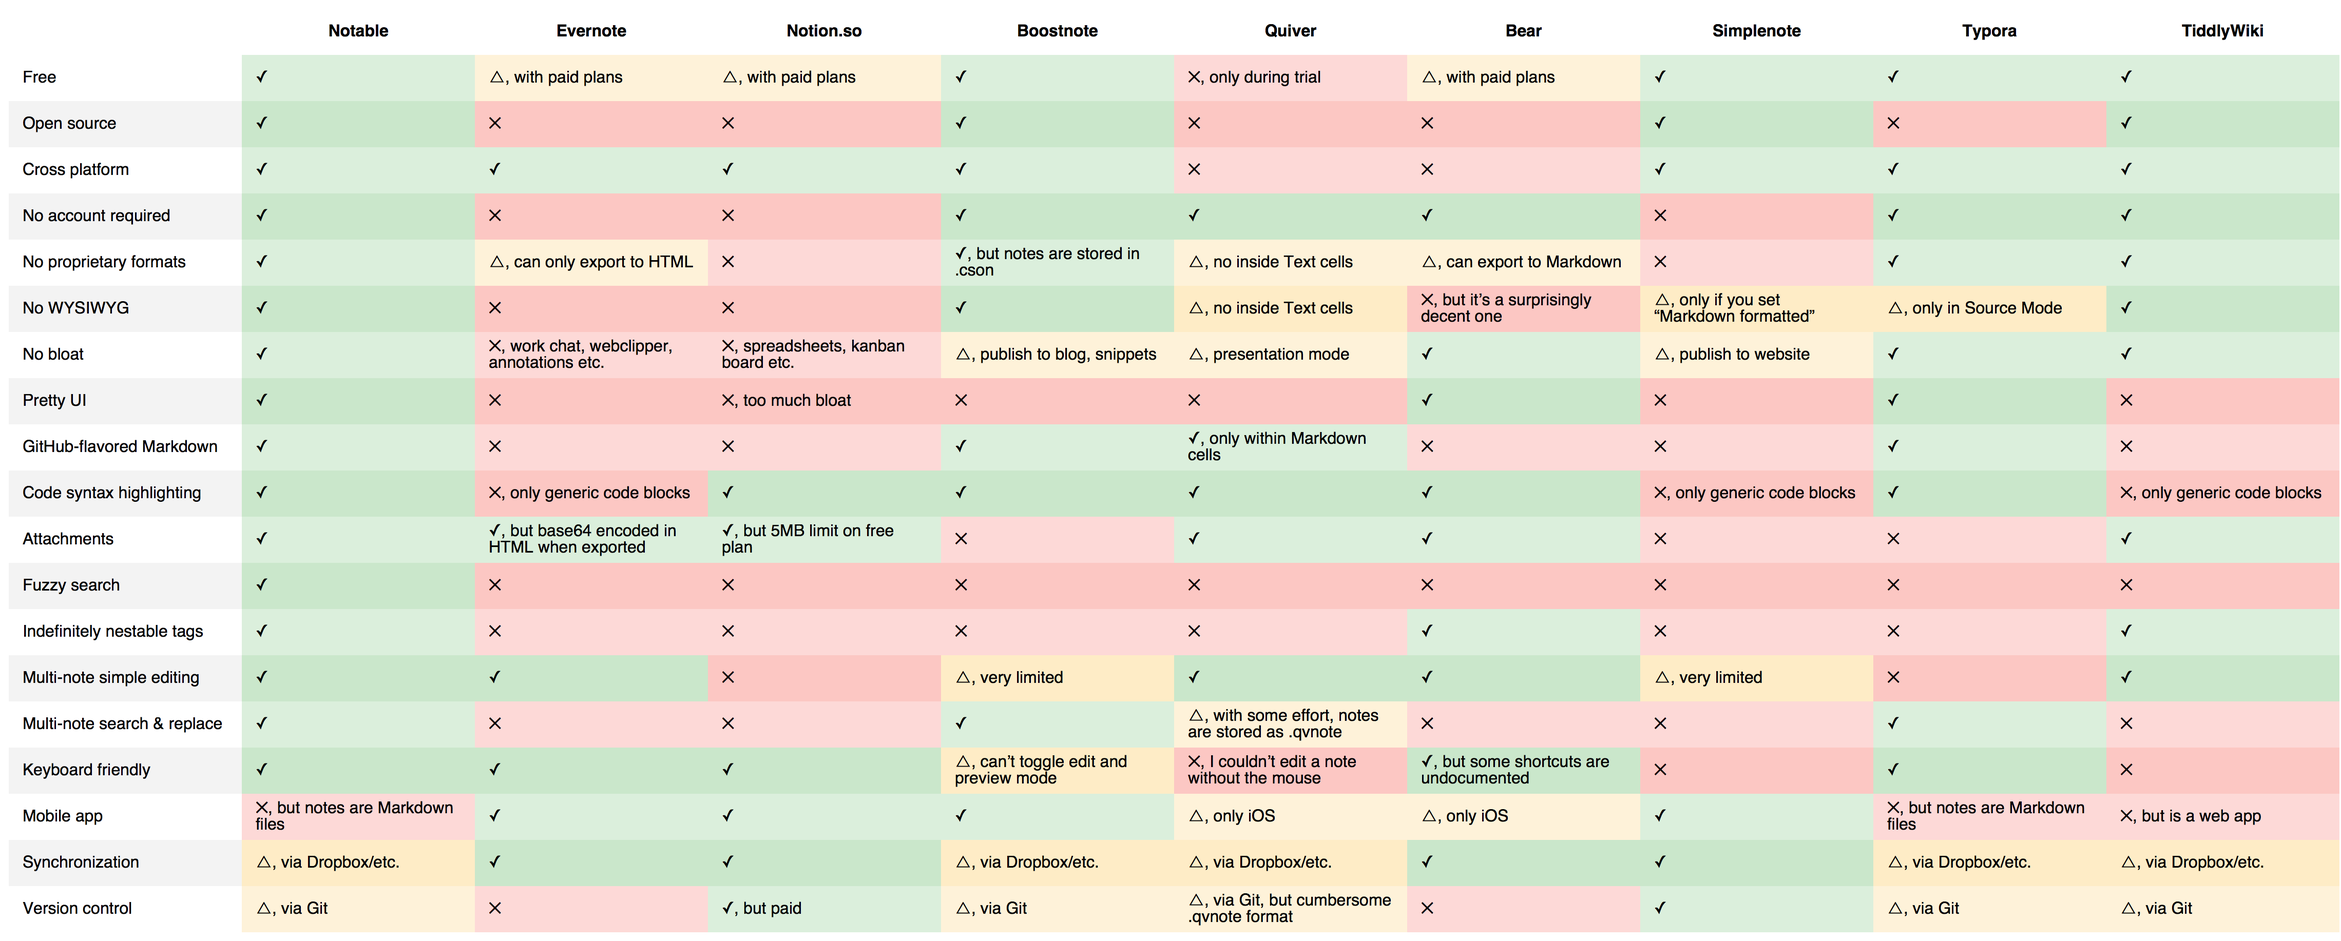
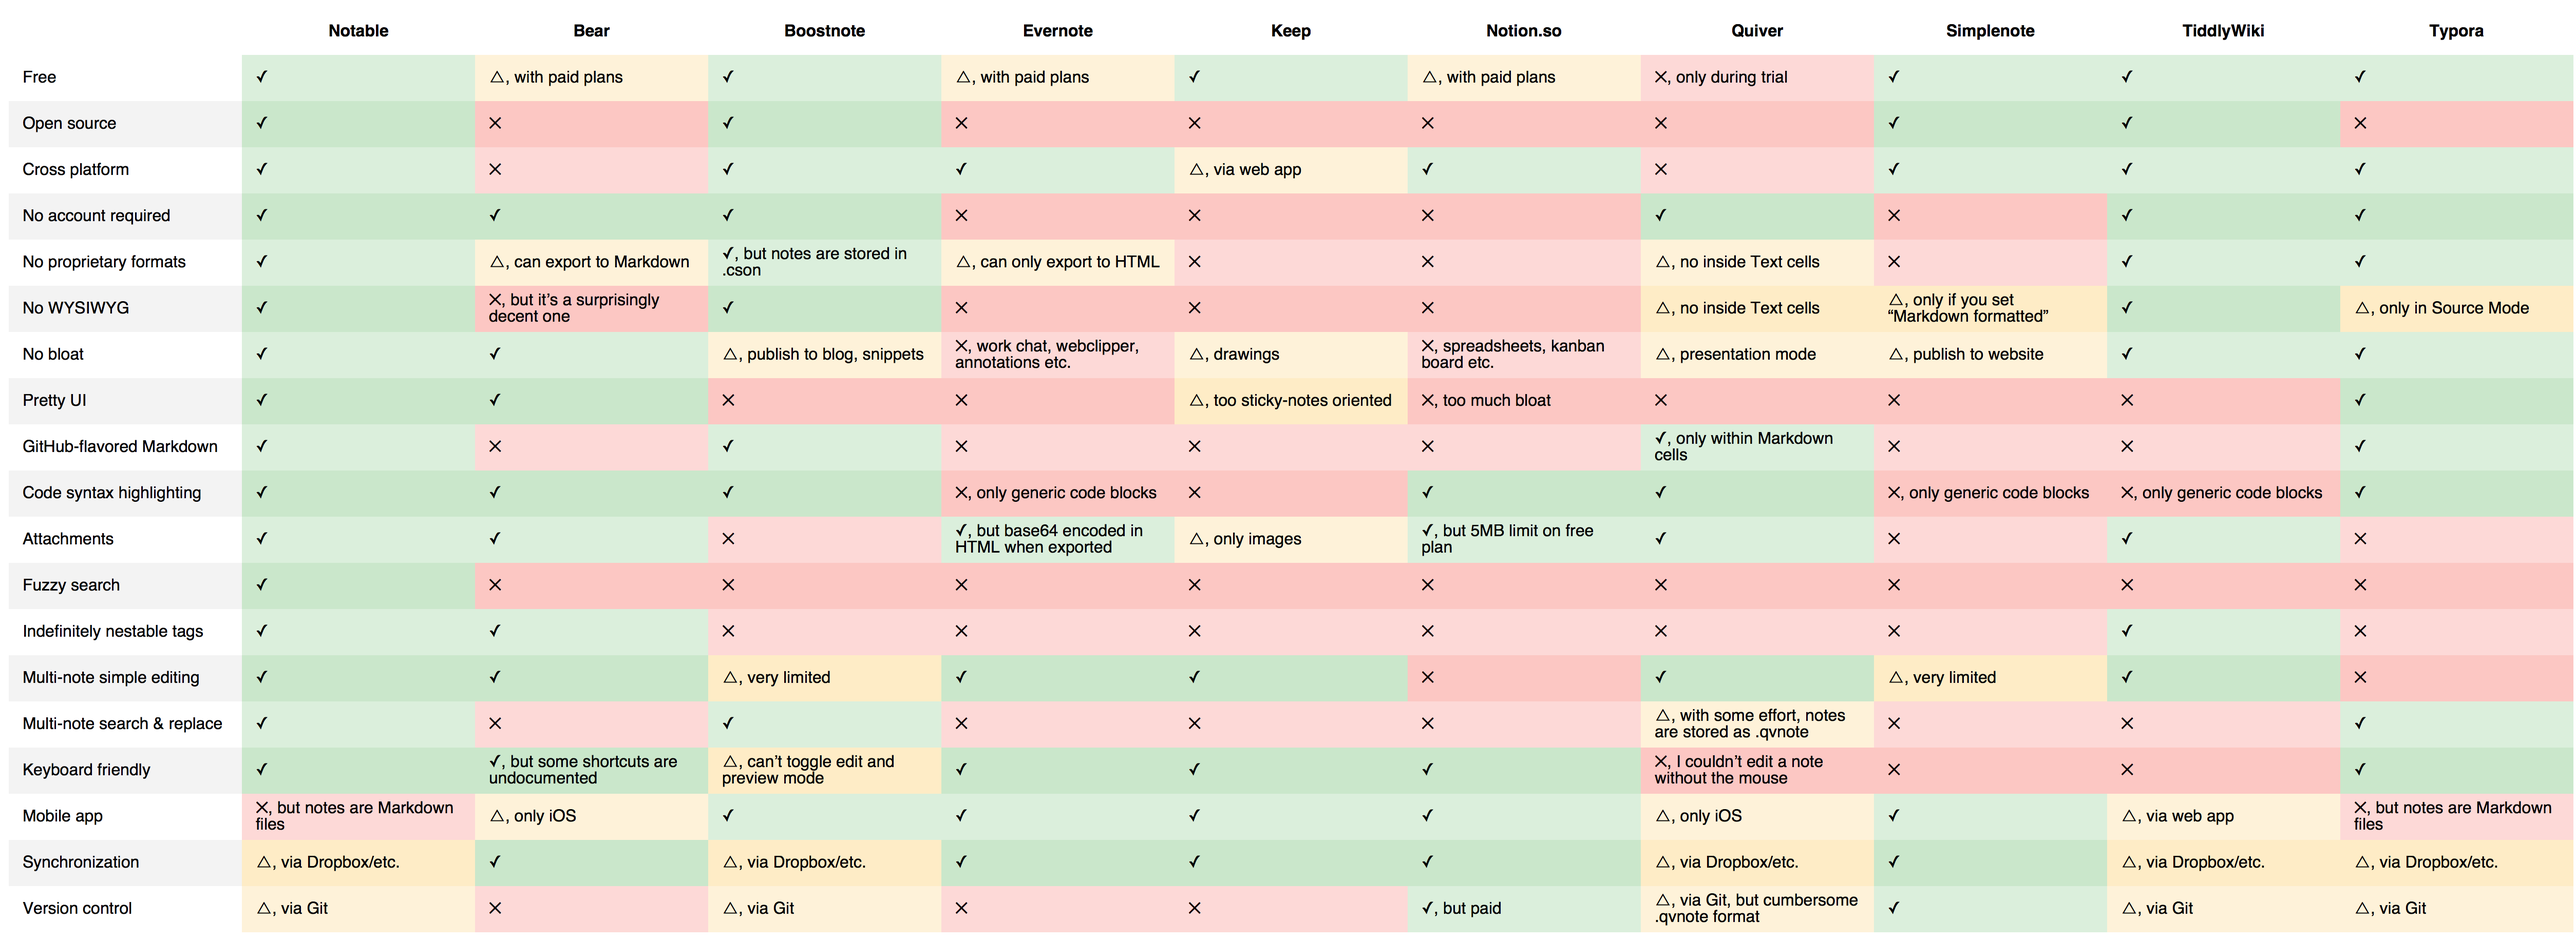
Added Google Keep to the comparison table
Closes #97

diff --git a/resources/comparison/table.html b/resources/comparison/table.html
@@ -54,6 +54,7 @@
         <th>Bear</th> <!-- Bear -->
         <th>Boostnote</th> <!-- Boostnote -->
         <th>Evernote</th> <!-- Evernote -->
+        <th>Keep</th> <!-- Keep -->
         <th>Notion.so</th> <!-- Notion.so -->
         <th>Quiver</th> <!-- Quiver -->
         <th>Simplenote</th> <!-- Simplenote -->
@@ -68,6 +69,7 @@
         <td class="W">△, with paid plans</td> <!-- Bear -->
         <td class="Y">✓</td> <!-- Boostnote -->
         <td class="W">△, with paid plans</td> <!-- Evernote -->
+        <td class="Y">✓</td> <!-- Keep -->
         <td class="W">△, with paid plans</td> <!-- Notion.so -->
         <td class="X">✕, only during trial</td> <!-- Quiver -->
         <td class="Y">✓</td> <!-- Simplenote -->
@@ -80,6 +82,7 @@
         <td class="X">✕</td> <!-- Bear -->
         <td class="Y">✓</td> <!-- Boostnote -->
         <td class="X">✕</td> <!-- Evernote -->
+        <td class="X">✕</td> <!-- Keep -->
         <td class="X">✕</td> <!-- Notion.so -->
         <td class="X">✕</td> <!-- Quiver -->
         <td class="Y">✓</td> <!-- Simplenote -->
@@ -92,6 +95,7 @@
         <td class="X">✕</td> <!-- Bear -->
         <td class="Y">✓</td> <!-- Boostnote -->
         <td class="Y">✓</td> <!-- Evernote -->
+        <td class="W">△, via web app</td> <!-- Keep -->
         <td class="Y">✓</td> <!-- Notion.so -->
         <td class="X">✕</td> <!-- Quiver -->
         <td class="Y">✓</td> <!-- Simplenote -->
@@ -104,6 +108,7 @@
         <td class="Y">✓</td> <!-- Bear -->
         <td class="Y">✓</td> <!-- Boostnote -->
         <td class="X">✕</td> <!-- Evernote -->
+        <td class="X">✕</td> <!-- Keep -->
         <td class="X">✕</td> <!-- Notion.so -->
         <td class="Y">✓</td> <!-- Quiver -->
         <td class="X">✕</td> <!-- Simplenote -->
@@ -116,6 +121,7 @@
         <td class="W">△, can export to Markdown</td> <!-- Bear -->
         <td class="Y">✓, but notes are stored in .cson</td> <!-- Boostnote -->
         <td class="W">△, can only export to HTML</td> <!-- Evernote -->
+        <td class="X">✕</td> <!-- Keep -->
         <td class="X">✕</td> <!-- Notion.so -->
         <td class="W">△, no inside Text cells</td> <!-- Quiver -->
         <td class="X">✕</td> <!-- Simplenote -->
@@ -128,6 +134,7 @@
         <td class="X">✕, but it’s a surprisingly decent one</td> <!-- Bear -->
         <td class="Y">✓</td> <!-- Boostnote -->
         <td class="X">✕</td> <!-- Evernote -->
+        <td class="X">✕</td> <!-- Keep -->
         <td class="X">✕</td> <!-- Notion.so -->
         <td class="W">△, no inside Text cells</td> <!-- Quiver -->
         <td class="W">△, only if you set “Markdown formatted”</td> <!-- Simplenote -->
@@ -140,6 +147,7 @@
         <td class="Y">✓</td> <!-- Bear -->
         <td class="W">△, publish to blog, snippets</td> <!-- Boostnote -->
         <td class="X">✕, work chat, webclipper, annotations etc.</td> <!-- Evernote -->
+        <td class="W">△, drawings</td> <!-- Keep -->
         <td class="X">✕, spreadsheets, kanban board etc.</td> <!-- Notion.so -->
         <td class="W">△, presentation mode</td> <!-- Quiver -->
         <td class="W">△, publish to website</td> <!-- Simplenote -->
@@ -152,6 +160,7 @@
         <td class="Y">✓</td> <!-- Bear -->
         <td class="X">✕</td> <!-- Boostnote -->
         <td class="X">✕</td> <!-- Evernote -->
+        <td class="W">△, too sticky-notes oriented</td> <!-- Keep -->
         <td class="X">✕, too much bloat</td> <!-- Notion.so -->
         <td class="X">✕</td> <!-- Quiver -->
         <td class="X">✕</td> <!-- Simplenote -->
@@ -164,6 +173,7 @@
         <td class="X">✕</td> <!-- Bear -->
         <td class="Y">✓</td> <!-- Boostnote -->
         <td class="X">✕</td> <!-- Evernote -->
+        <td class="X">✕</td> <!-- Keep -->
         <td class="X">✕</td> <!-- Notion.so -->
         <td class="Y">✓, only within Markdown cells</td> <!-- Quiver -->
         <td class="X">✕</td> <!-- Simplenote -->
@@ -176,6 +186,7 @@
         <td class="Y">✓</td> <!-- Bear -->
         <td class="Y">✓</td> <!-- Boostnote -->
         <td class="X">✕, only generic code blocks</td> <!-- Evernote -->
+        <td class="X">✕</td> <!-- Keep -->
         <td class="Y">✓</td> <!-- Notion.so -->
         <td class="Y">✓</td> <!-- Quiver -->
         <td class="X">✕, only generic code blocks</td> <!-- Simplenote -->
@@ -188,6 +199,7 @@
         <td class="Y">✓</td> <!-- Bear -->
         <td class="X">✕</td> <!-- Boostnote -->
         <td class="Y">✓, but base64 encoded in HTML when exported</td> <!-- Evernote -->
+        <td class="W">△, only images</td> <!-- Keep -->
         <td class="Y">✓, but 5MB limit on free plan</td> <!-- Notion.so -->
         <td class="Y">✓</td> <!-- Quiver -->
         <td class="X">✕</td> <!-- Simplenote -->
@@ -200,6 +212,7 @@
         <td class="X">✕</td> <!-- Bear -->
         <td class="X">✕</td> <!-- Boostnote -->
         <td class="X">✕</td> <!-- Evernote -->
+        <td class="X">✕</td> <!-- Keep -->
         <td class="X">✕</td> <!-- Notion.so -->
         <td class="X">✕</td> <!-- Quiver -->
         <td class="X">✕</td> <!-- Simplenote -->
@@ -212,6 +225,7 @@
         <td class="Y">✓</td> <!-- Bear -->
         <td class="X">✕</td> <!-- Boostnote -->
         <td class="X">✕</td> <!-- Evernote -->
+        <td class="X">✕</td> <!-- Keep -->
         <td class="X">✕</td> <!-- Notion.so -->
         <td class="X">✕</td> <!-- Quiver -->
         <td class="X">✕</td> <!-- Simplenote -->
@@ -224,6 +238,7 @@
         <td class="Y">✓</td> <!-- Bear -->
         <td class="W">△, very limited</td> <!-- Boostnote -->
         <td class="Y">✓</td> <!-- Evernote -->
+        <td class="Y">✓</td> <!-- Keep -->
         <td class="X">✕</td> <!-- Notion.so -->
         <td class="Y">✓</td> <!-- Quiver -->
         <td class="W">△, very limited</td> <!-- Simplenote -->
@@ -236,6 +251,7 @@
         <td class="X">✕</td> <!-- Bear -->
         <td class="Y">✓</td> <!-- Boostnote -->
         <td class="X">✕</td> <!-- Evernote -->
+        <td class="X">✕</td> <!-- Keep -->
         <td class="X">✕</td> <!-- Notion.so -->
         <td class="W">△, with some effort, notes are stored as .qvnote</td> <!-- Quiver -->
         <td class="X">✕</td> <!-- Simplenote -->
@@ -248,6 +264,7 @@
         <td class="Y">✓, but some shortcuts are undocumented</td> <!-- Bear -->
         <td class="W">△, can’t toggle edit and preview mode</td> <!-- Boostnote -->
         <td class="Y">✓</td> <!-- Evernote -->
+        <td class="Y">✓</td> <!-- Keep -->
         <td class="Y">✓</td> <!-- Notion.so -->
         <td class="X">✕, I couldn’t edit a note without the mouse</td> <!-- Quiver -->
         <td class="X">✕</td> <!-- Simplenote -->
@@ -260,10 +277,11 @@
         <td class="W">△, only iOS</td> <!-- Bear -->
         <td class="Y">✓</td> <!-- Boostnote -->
         <td class="Y">✓</td> <!-- Evernote -->
+        <td class="Y">✓</td> <!-- Keep -->
         <td class="Y">✓</td> <!-- Notion.so -->
         <td class="W">△, only iOS</td> <!-- Quiver -->
         <td class="Y">✓</td> <!-- Simplenote -->
-        <td class="X">✕, but is a web app</td> <!-- TiddlyWiki -->
+        <td class="W">△, via web app</td> <!-- TiddlyWiki -->
         <td class="X">✕, but notes are Markdown files</td> <!-- Typora -->
       </tr>
       <tr>
@@ -272,6 +290,7 @@
         <td class="Y">✓</td> <!-- Bear -->
         <td class="W">△, via Dropbox/etc.</td> <!-- Boostnote -->
         <td class="Y">✓</td> <!-- Evernote -->
+        <td class="Y">✓</td> <!-- Keep -->
         <td class="Y">✓</td> <!-- Notion.so -->
         <td class="W">△, via Dropbox/etc.</td> <!-- Quiver -->
         <td class="Y">✓</td> <!-- Simplenote -->
@@ -284,6 +303,7 @@
         <td class="X">✕</td> <!-- Bear -->
         <td class="W">△, via Git</td> <!-- Boostnote -->
         <td class="X">✕</td> <!-- Evernote -->
+        <td class="X">✕</td> <!-- Keep -->
         <td class="Y">✓, but paid</td> <!-- Notion.so -->
         <td class="W">△, via Git, but cumbersome .qvnote format</td> <!-- Quiver -->
         <td class="Y">✓</td> <!-- Simplenote -->
